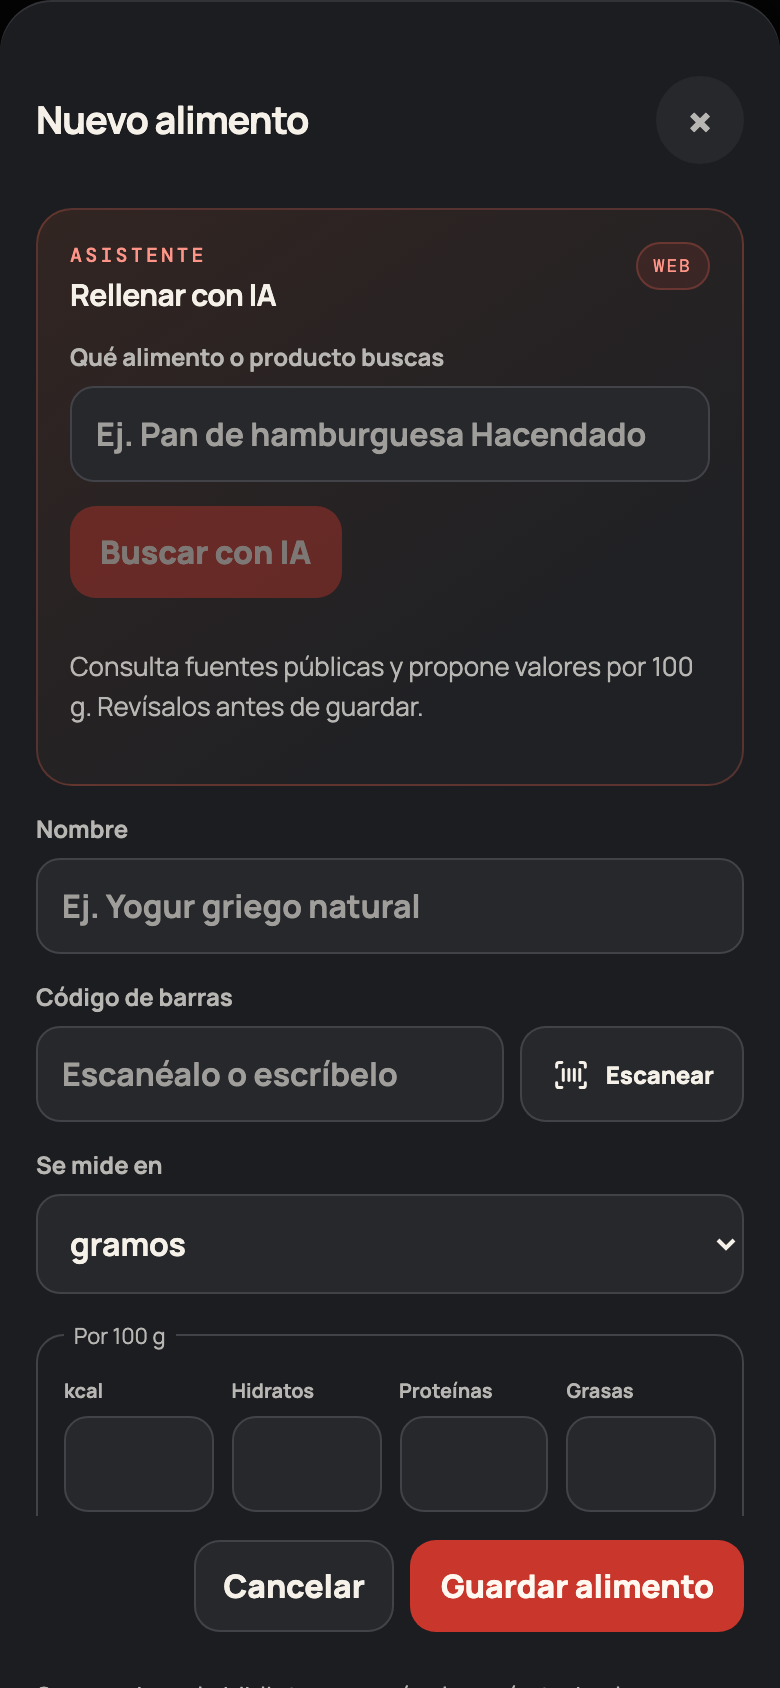
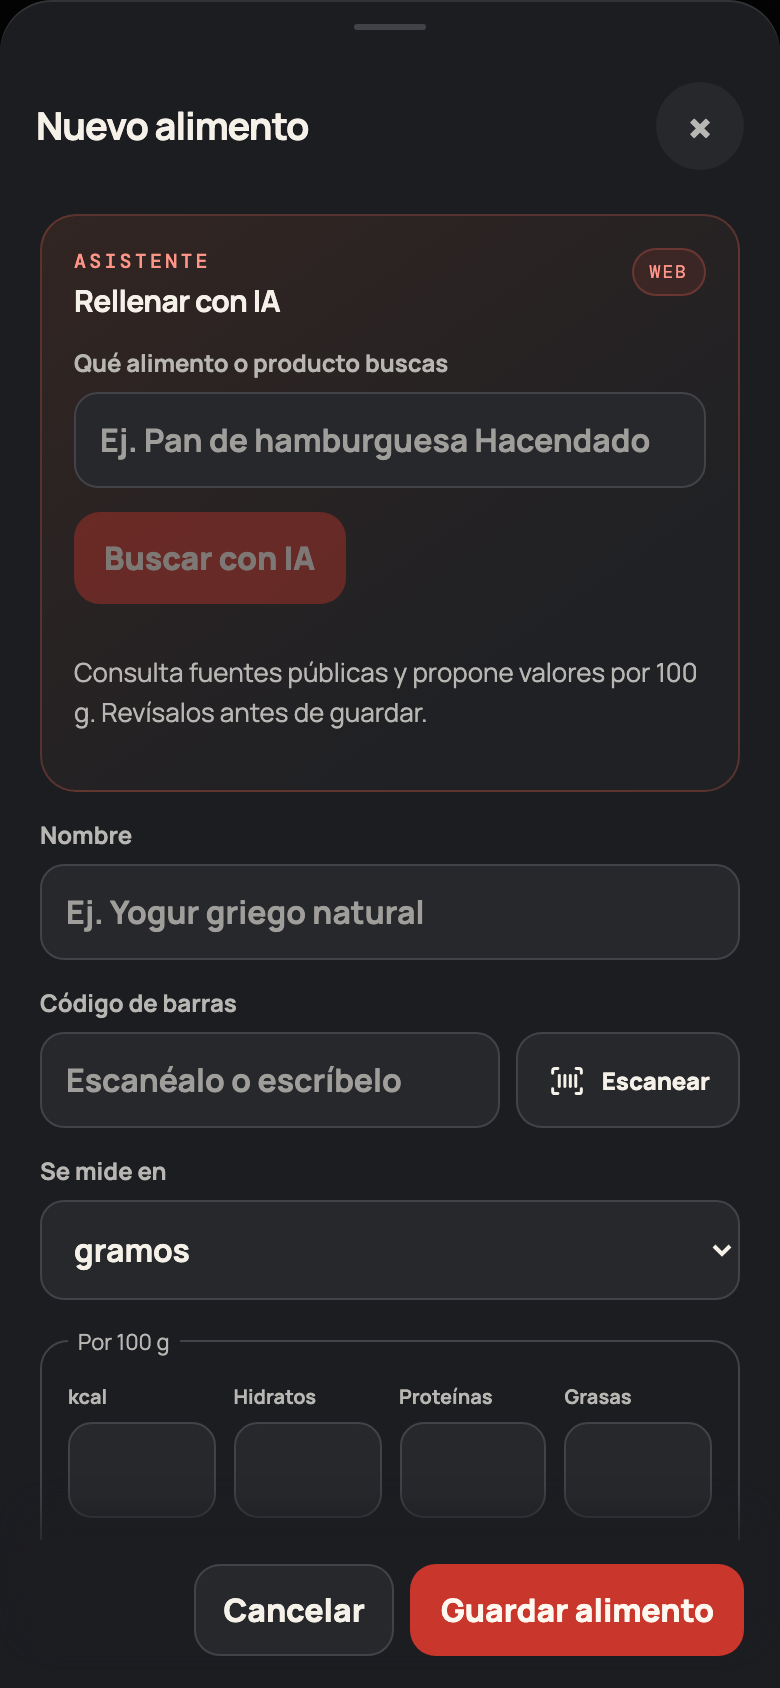
Stabilize long food sheets around the keyboard

diff --git a/src/components/FoodForm.jsx b/src/components/FoodForm.jsx
@@ -1,4 +1,4 @@
-import { useState } from 'react'
+import { useId, useState } from 'react'
 import { api } from '../lib/api.js'
 import { emptyFood, number, selectZero } from '../lib/nutrition.js'
 import { recognizeLabel } from '../lib/ocr.js'
@@ -13,6 +13,7 @@ const confidenceText = { high: 'alta', medium: 'media', low: 'baja' }
  *  portion, favorite, label OCR and the private QR stay behind "Más opciones".
  *  Whatever is saved here goes to the shared catalog every profile searches. */
 export default function FoodForm({ initial, onSave, onCancel, onDelete }) {
+  const formId = useId()
   const [food, setFood] = useState(initial || emptyFood())
   const [ocr, setOcr] = useState('')
   const [loading, setLoading] = useState(false)
@@ -65,7 +66,7 @@ export default function FoodForm({ initial, onSave, onCancel, onDelete }) {
   const unit = food.basis === 'ml' ? 'ml' : 'g'
 
   return <>
-  <form className="form" onSubmit={submit}>
+  <form id={formId} className="form form-sheet-scroll" onSubmit={submit}>
     <section className="ai-assistant" aria-labelledby="food-ai-title">
       <div className="ai-assistant-head"><div><p className="eyebrow">ASISTENTE</p><h3 id="food-ai-title">Rellenar con IA</h3></div><span className="ai-badge">WEB</span></div>
       <label>Qué alimento o producto buscas<input value={aiQuery} onChange={event => setAiQuery(event.target.value)} onKeyDown={event => { if (event.key === 'Enter') { event.preventDefault(); fillWithAi() } }} placeholder="Ej. Pan de hamburguesa Hacendado" enterKeyHint="search" autoComplete="off" /></label>
@@ -116,8 +117,8 @@ export default function FoodForm({ initial, onSave, onCancel, onDelete }) {
       : <button type="button" className="link-button danger" onClick={() => setConfirming(true)}>Eliminar de la biblioteca</button>)}
 
     {error && <p className="error" role="alert">{error}</p>}
-    <footer className="form-actions"><button type="button" className="secondary" onClick={onCancel}>Cancelar</button><button type="submit" disabled={saving || loading}>{saving ? 'Guardando…' : 'Guardar alimento'}</button></footer>
   </form>
+  <footer className="form-actions form-sheet-actions"><button type="button" className="secondary" onClick={onCancel}>Cancelar</button><button type="submit" form={formId} disabled={saving || loading}>{saving ? 'Guardando…' : 'Guardar alimento'}</button></footer>
   {scanning && <Scanner onResult={code => { set('barcode', code); setScanning(false) }} onClose={() => setScanning(false)} />}
   </>
 }

diff --git a/src/components/RecipeBuilder.jsx b/src/components/RecipeBuilder.jsx
@@ -1,9 +1,10 @@
-import { useMemo, useState } from 'react'
+import { useId, useMemo, useState } from 'react'
 import { scaleNutrients, sumNutrients, selectZero } from '../lib/nutrition.js'
 
 const formatNutrient = (key, value) => (key === 'kcal' ? '' : key[0].toUpperCase()) + (value == null ? '—' : Math.round(value)) + (key === 'kcal' ? ' kcal' : 'g')
 
 export default function RecipeBuilder({ foods, onSave, onCancel }) {
+  const formId = useId()
   const [name, setName] = useState('')
   const [yieldGrams, setYieldGrams] = useState('')
   const [parts, setParts] = useState([])
@@ -52,7 +53,8 @@ export default function RecipeBuilder({ foods, onSave, onCancel }) {
     }
   }
 
-  return <form className="form" onSubmit={save}>
+  return <>
+  <form id={formId} className="form form-sheet-scroll" onSubmit={save}>
     <p className="muted">Las cantidades de ingredientes se convierten a valores por 100 g del plato terminado.</p>
     <label>Nombre de la receta<input required value={name} onChange={event => setName(event.target.value)} placeholder="Ej. Lentejas caseras" /></label>
     <label>Rendimiento final (g)<input required type="number" min="1" inputMode="decimal" value={yieldGrams} onFocus={selectZero} onChange={event => setYieldGrams(event.target.value)} /></label>
@@ -67,6 +69,7 @@ export default function RecipeBuilder({ foods, onSave, onCancel }) {
     </div>)}
     <div className="recipe-total"><span>Por 100 g</span><b>{Object.entries(per100).map(([key, value]) => formatNutrient(key, value)).join(' · ')}</b></div>
     {error && <p className="error" role="alert">{error}</p>}
-    <footer className="form-actions"><button type="button" className="secondary" onClick={onCancel}>Cancelar</button><button disabled={!parts.length || saving}>{saving ? 'Guardando…' : 'Guardar receta'}</button></footer>
   </form>
+  <footer className="form-actions form-sheet-actions"><button type="button" className="secondary" onClick={onCancel}>Cancelar</button><button type="submit" form={formId} disabled={!parts.length || saving}>{saving ? 'Guardando…' : 'Guardar receta'}</button></footer>
+  </>
 }

diff --git a/src/components/Modal.jsx b/src/components/Modal.jsx
@@ -1,7 +1,7 @@
 import { useEffect, useRef } from 'react'
 import { createPortal } from 'react-dom'
 
-export default function Modal({ title, children, onClose, tall = false, action = null }) {
+export default function Modal({ title, children, onClose, tall = false, action = null, className = '' }) {
   const dialog = useRef(null)
   const close = useRef(onClose); close.current = onClose
   useEffect(() => {
@@ -23,5 +23,5 @@ export default function Modal({ title, children, onClose, tall = false, action =
     document.addEventListener('keydown', keydown)
     return () => { document.body.style.overflow = overflow; document.removeEventListener('keydown', keydown); if (previous?.isConnected) previous.focus({ preventScroll: true }) }
   }, [])
-  return createPortal(<div className="modal-backdrop" role="presentation" onMouseDown={onClose}><section ref={dialog} tabIndex={-1} className={`modal ${tall ? 'modal-tall' : ''}`} role="dialog" aria-modal="true" aria-label={title} onMouseDown={e => e.stopPropagation()}><header><h2>{title}</h2><div className="modal-actions">{action}<button type="button" className="icon-button" onClick={onClose} aria-label="Cerrar">×</button></div></header>{children}</section></div>, document.body)
+  return createPortal(<div className="modal-backdrop" role="presentation" onMouseDown={onClose}><section ref={dialog} tabIndex={-1} className={`modal ${tall ? 'modal-tall' : ''} ${className}`.trim()} role="dialog" aria-modal="true" aria-label={title} onMouseDown={e => e.stopPropagation()}><header><h2>{title}</h2><div className="modal-actions">{action}<button type="button" className="icon-button" onClick={onClose} aria-label="Cerrar">×</button></div></header>{children}</section></div>, document.body)
 }

diff --git a/src/views/Foods.jsx b/src/views/Foods.jsx
@@ -95,11 +95,11 @@ export default function Foods({ foods, onFoods }) {
       {!visible.length && <p className="empty">No hay alimentos que coincidan.</p>}
     </div>
 
-    {editing && <Modal title={stored ? 'Editar alimento' : 'Nuevo alimento'} onClose={() => setEditing(null)}>
+    {editing && <Modal title={stored ? 'Editar alimento' : 'Nuevo alimento'} onClose={() => setEditing(null)} className="form-sheet">
       <FoodForm initial={editing} onSave={save} onCancel={() => setEditing(null)}
         onDelete={stored ? () => remove(editing) : undefined} />
     </Modal>}
-    {recipe && <Modal title="Nueva receta" onClose={() => setRecipe(false)}>
+    {recipe && <Modal title="Nueva receta" onClose={() => setRecipe(false)} className="form-sheet">
       <RecipeBuilder foods={foods} onSave={save} onCancel={() => setRecipe(false)} /></Modal>}
     {scanner && <Scanner onResult={barcode} onClose={() => setScanner(false)} />}
   </main>

diff --git a/src/styles.css b/src/styles.css
@@ -402,6 +402,9 @@ button.danger{background:#3a221f;color:#ffb3a7;box-shadow:inset 0 0 0 1px #5a312
 .modal .quantity-row input{font-size:21px}
 .modal header{position:sticky;top:0;z-index:2;background:var(--surface);padding-block:8px}
 .modal .form-actions{position:sticky;bottom:0;z-index:2;background:var(--surface);padding-block:12px;margin-top:12px}
+.modal.form-sheet{overflow:hidden}
+.modal.form-sheet>.form-sheet-scroll{flex:1 1 auto;min-height:0;overflow-y:auto;overflow-x:hidden;overscroll-behavior:contain;padding:0 2px 18px}
+.modal.form-sheet>.form-sheet-actions{position:relative;flex:none;z-index:2;margin:0 -2px;padding:12px 2px 0;background:var(--surface);box-shadow:0 -12px 18px var(--surface)}
 @media(min-width:700px){.modal-backdrop{padding:24px}.modal-tall{height:min(760px,100%)}}
 
 .build{font-family:var(--mono);font-size:10px;color:var(--faint);margin:14px 0 0}

diff --git a/src/components/AddFood.jsx b/src/components/AddFood.jsx
@@ -135,7 +135,7 @@ export default function AddFood({ meal, entries, foods, profile, profiles, onAdd
   }, [local, result])
   const external = useMemo(() => (result.external || []).filter(item => hasKcal(item) && !mine.some(food => sameFood(food, item))), [result, mine])
 
-  if (creating) return <Modal title="Nuevo alimento" onClose={() => setCreating(null)}>
+  if (creating) return <Modal title="Nuevo alimento" onClose={() => setCreating(null)} className="form-sheet">
     <FoodForm initial={creating} onCancel={() => setCreating(null)} onSave={async food => {
       try { const saved = await api('/api/foods', { method: 'POST', body: JSON.stringify(food) }); onCreated(saved); setCreating(null); choose(saved) }
       catch (error) { throw error }

diff --git a/DESIGN.md b/DESIGN.md
@@ -28,6 +28,7 @@ Keep the red bowl variant consistent across:
 - Floating notifications and reversible deletion notices dismiss after five seconds. The undo action remains available for that full interval; validation errors inside forms remain until corrected.
 - A habitual food already present in the selected meal stays in place with a persistent check and its quick-add button disabled. Tapping the row still opens the quantity view for an intentional second serving.
 - The add-food sheet uses a plus icon for manual food creation and overlapping sheets for copying the previous day's selected meal. Both have 44 pixel touch targets and accessible labels. Desktop tooltips are supplementary; mobile help refers to the plus, and the copy sheet explains which day's meals will be copied.
+- Long food and recipe sheets keep the header and action footer outside the scrollable form. This leaves one stable content viewport for Safari's keyboard resize, so fields remain reachable and the footer never covers form content.
 
 Validate text pairs against [WCAG contrast guidance](https://www.w3.org/WAI/WCAG22/Understanding/contrast-minimum.html), and respect [reduced motion](https://developer.mozilla.org/en-US/docs/Web/CSS/@media/prefers-reduced-motion). Run `npm run build`, `npm run check` and `npm run screenshots` to verify the mobile flows and refresh documentation previews.
 
